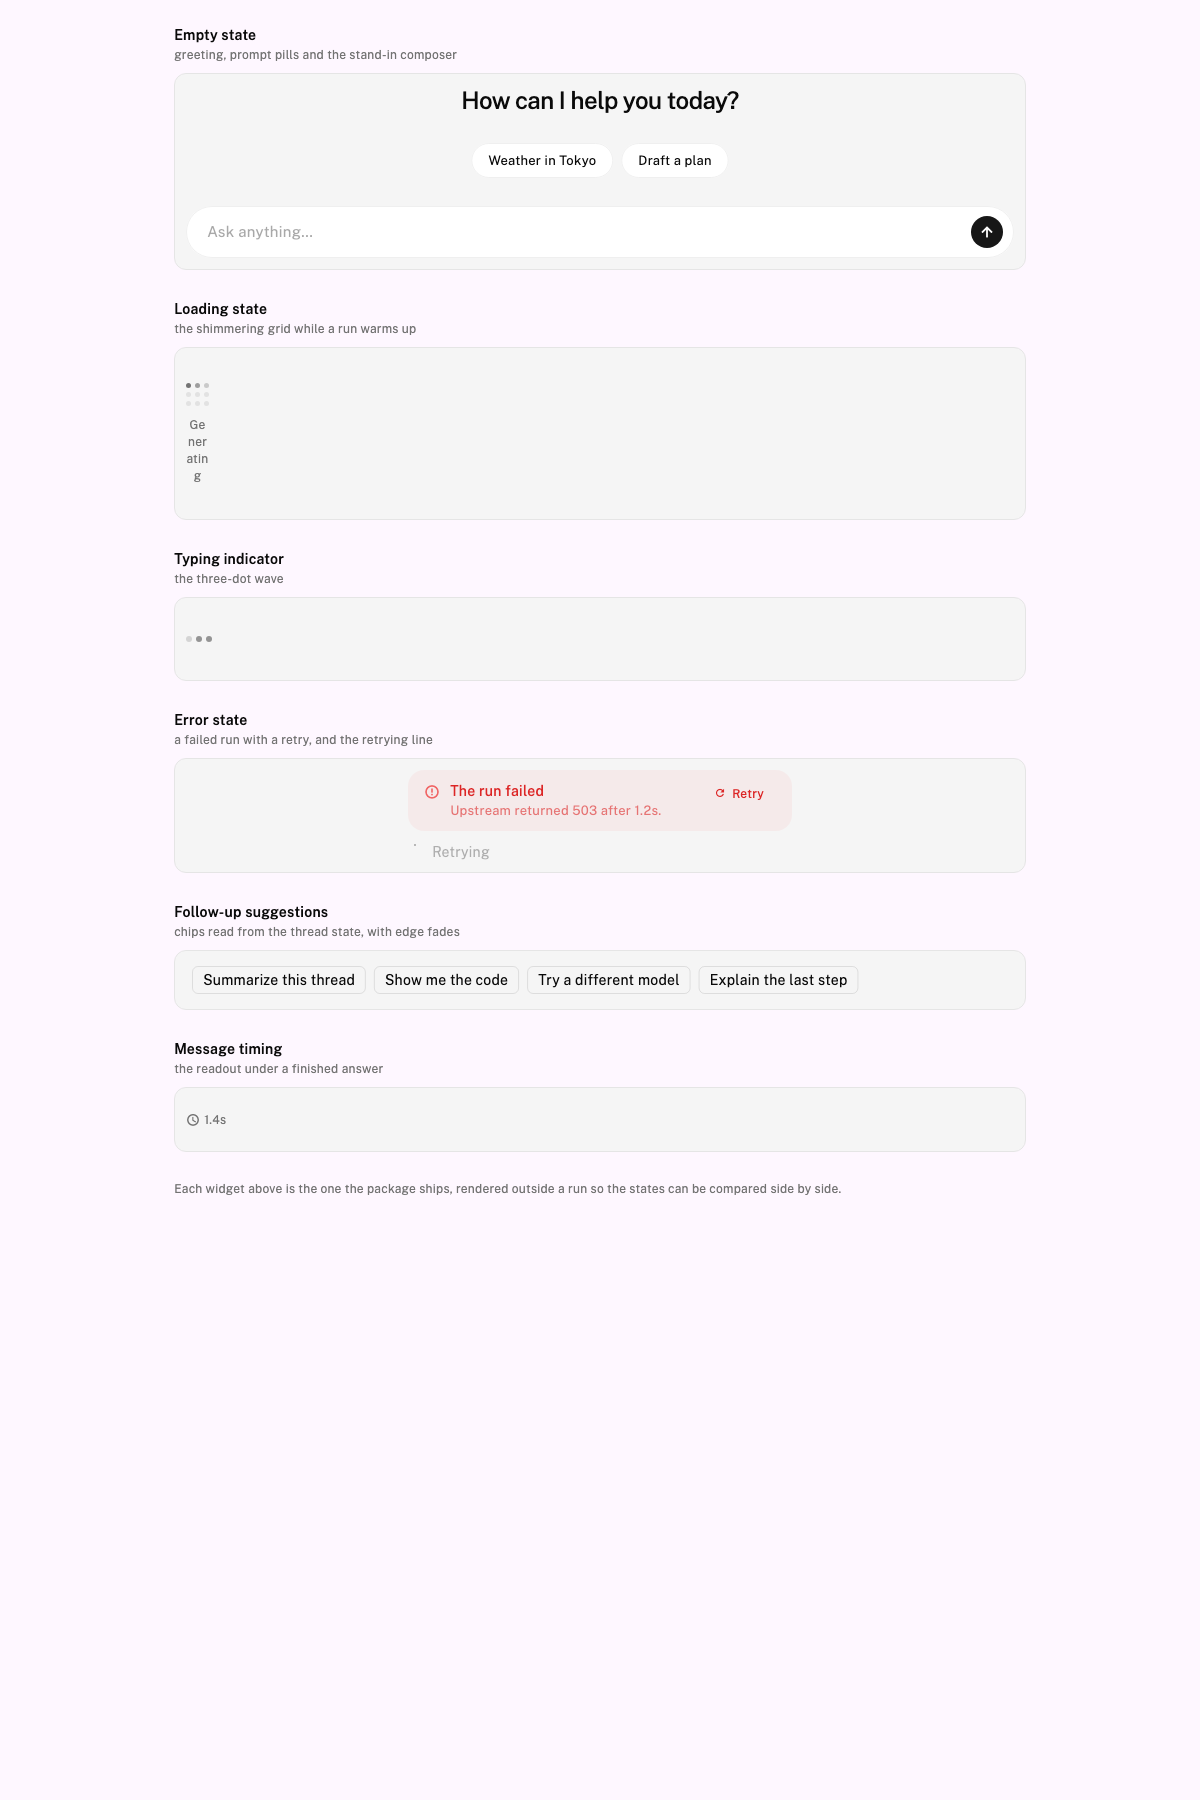
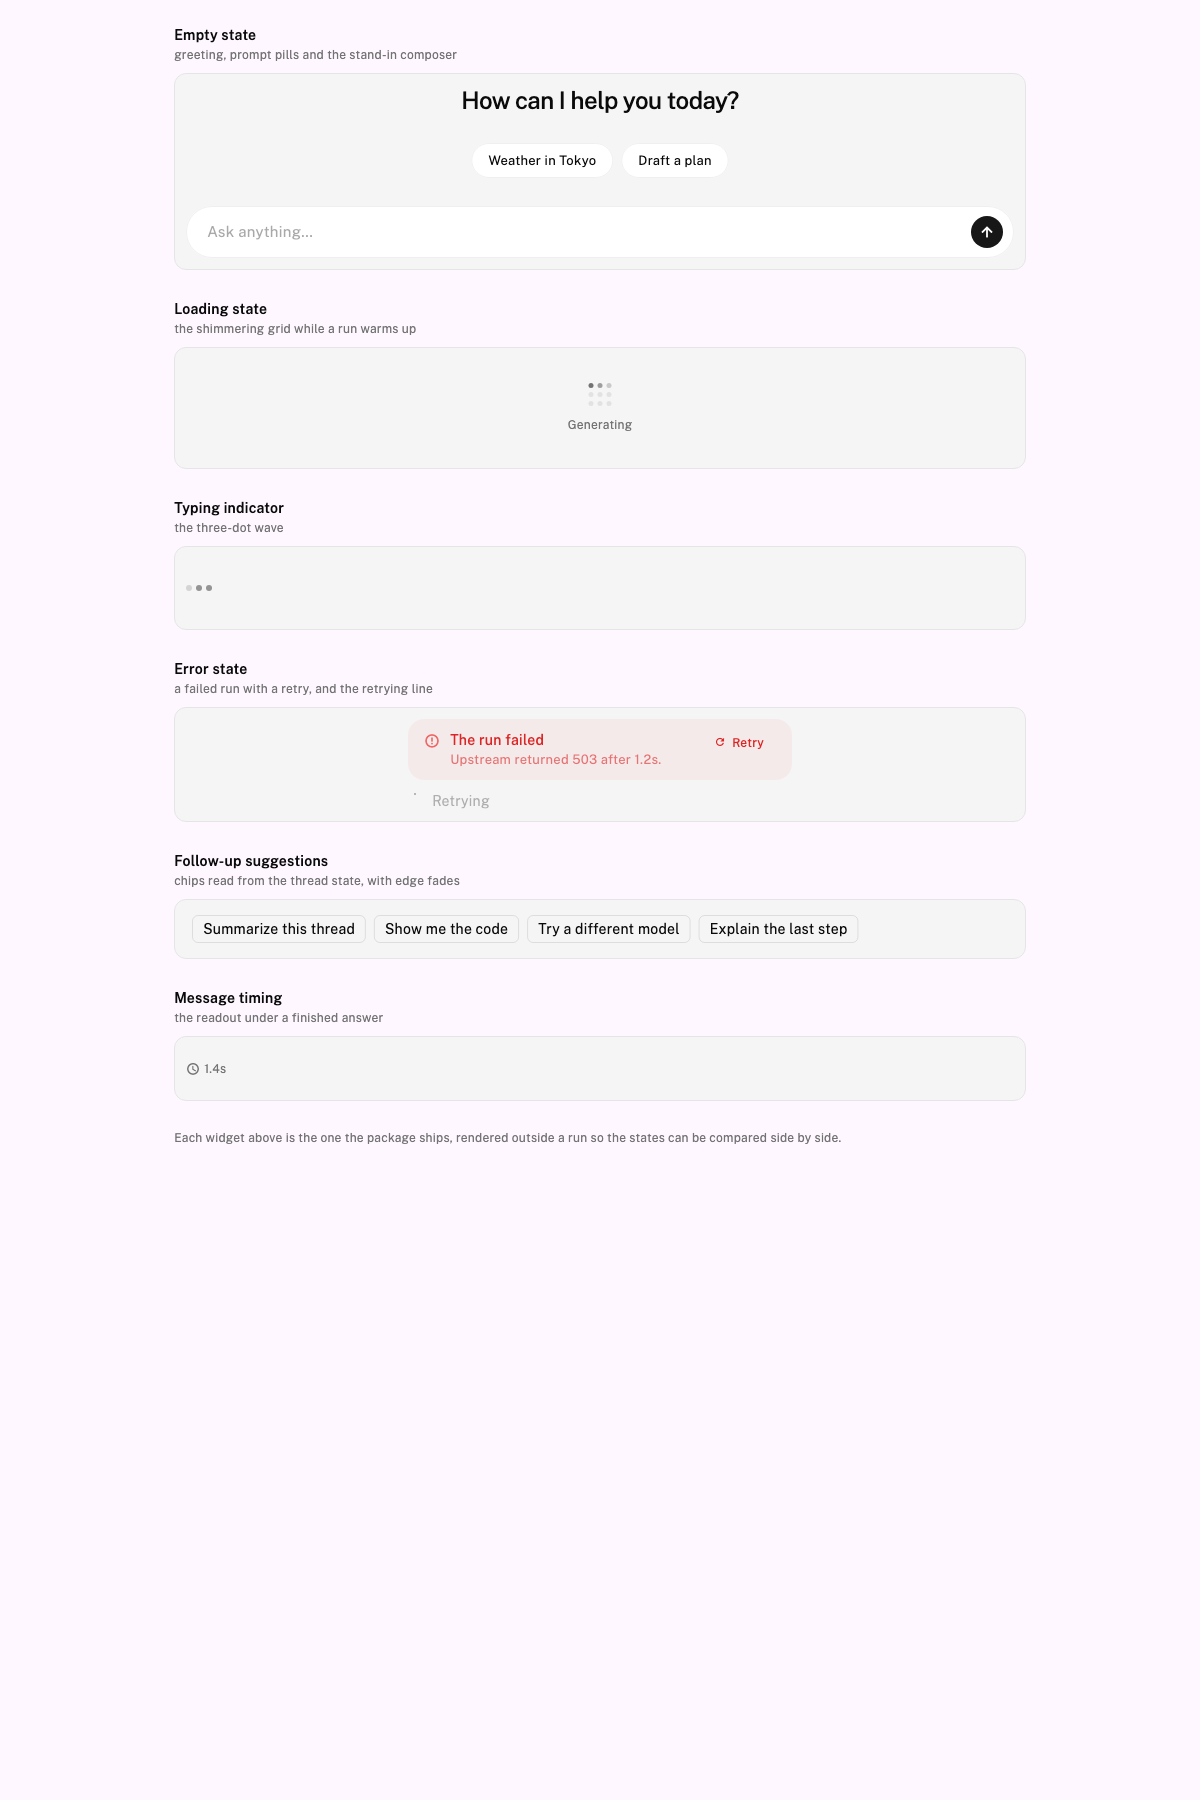
fix(loader): the caption sits under the matrix, not inside its width
Constraining the caption to the matrix's own width wrapped it to two lines. The
column centres its children now, so `Generating` reads the way the live card
does. States capture refreshed.

diff --git a/lib/src/components/indicators.dart b/lib/src/components/indicators.dart
@@ -220,7 +220,7 @@ class _AssistantLoadingStateState extends State<AssistantLoadingState>
       animation: _controller,
       builder: (BuildContext context, Widget? _) => Column(
         mainAxisSize: MainAxisSize.min,
-        crossAxisAlignment: CrossAxisAlignment.start,
+        crossAxisAlignment: CrossAxisAlignment.center,
         children: <Widget>[
           for (int row = 0; row < _rows; row++)
             Padding(
@@ -241,14 +241,10 @@ class _AssistantLoadingStateState extends State<AssistantLoadingState>
           if (widget.label != null)
             Padding(
               padding: const EdgeInsets.only(top: 10),
-              child: SizedBox(
-                width: _columns * widget.cellSize + (_columns - 1) * widget.spacing,
-                child: Text(
-                  widget.label!,
-                  textAlign: TextAlign.center,
-                  style: theme.small(context).copyWith(
-                    color: theme.mutedForeground,
-                  ),
+              child: Text(
+                widget.label!,
+                style: theme.small(context).copyWith(
+                  color: theme.mutedForeground,
                 ),
               ),
             ),
